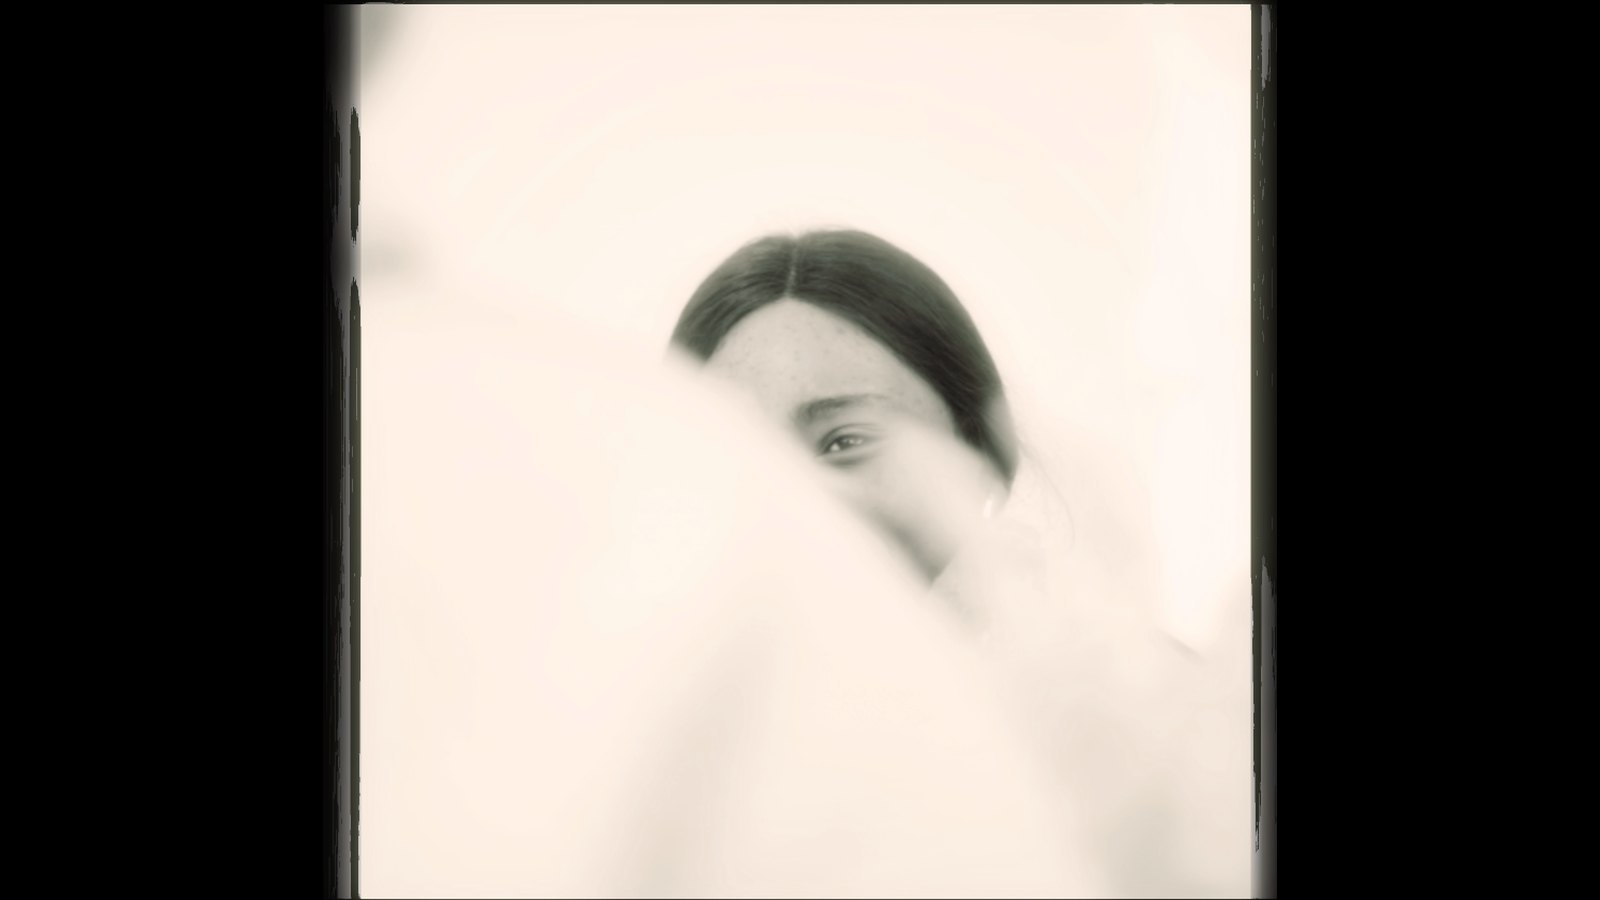
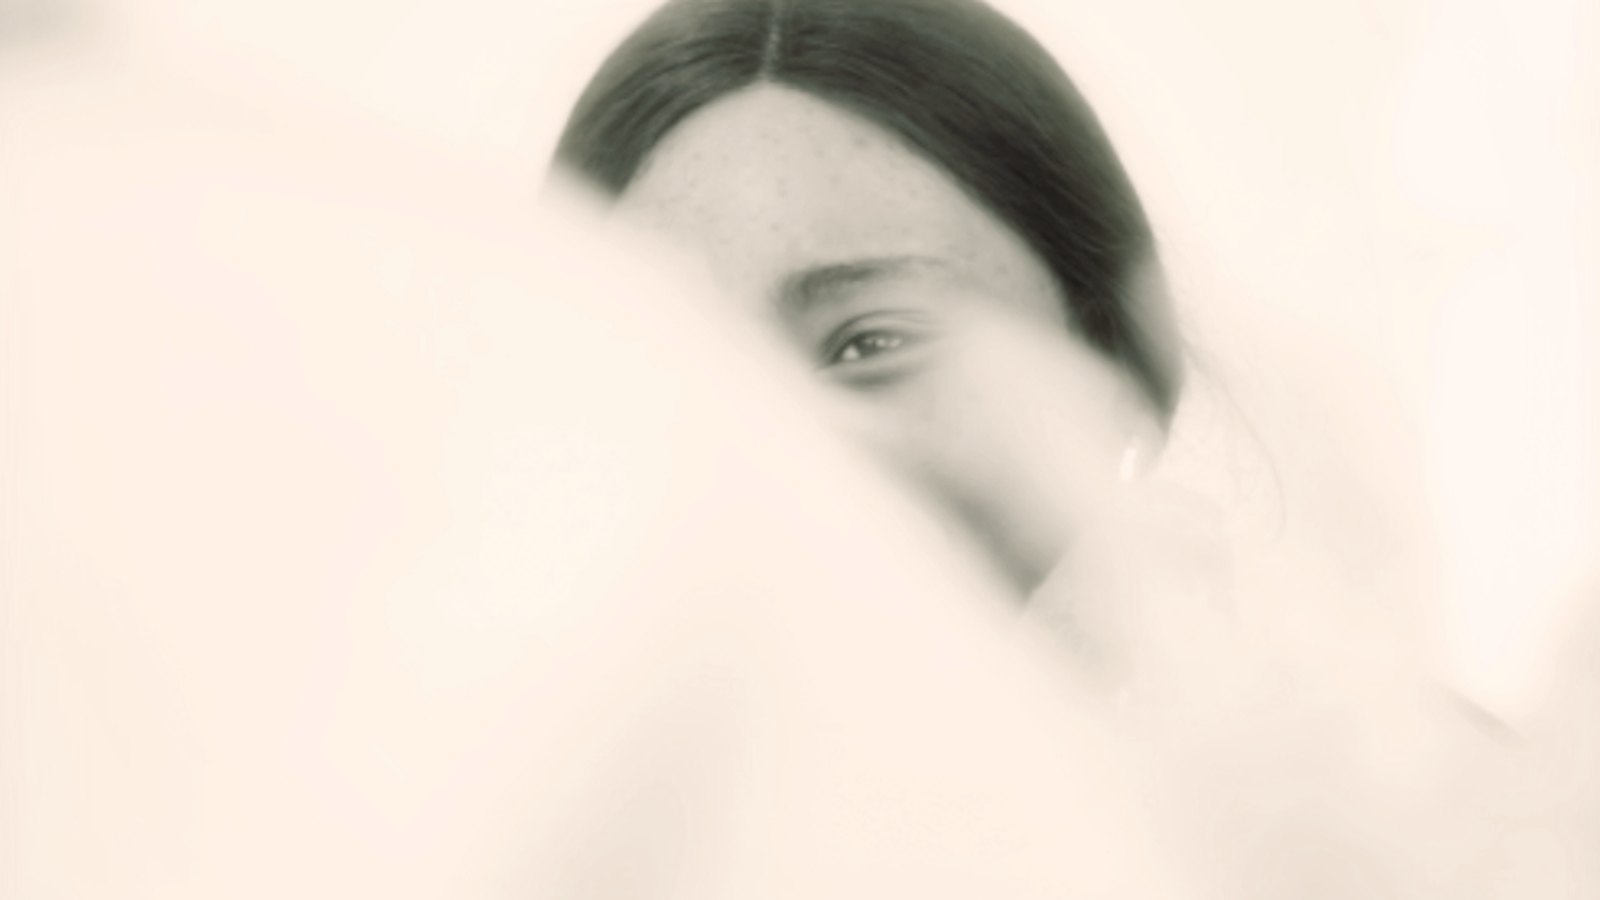
Films: zoomed still for Five women, five portraits
Claude-Session: https://claude.ai/code/session_01KwFkcjtweLDd6qYYzFRxw4

diff --git a/films.html b/films.html
@@ -109,7 +109,7 @@
         </div>
       </article>
       <article class="piece" id="cinco-mujeres">
-        <!-- Still: photos/art-06.jpg (16:9: square frame with black side bars). Vertical video (YouTube Short). -->
+        <!-- Still: photos/art-06.jpg (16:9 crop of the portrait). Vertical video (YouTube Short). -->
         <a class="ph r-w frame player" href="https://www.youtube.com/shorts/Y2JbU7RIQf4" target="_blank" rel="noopener" aria-label="Play Five women, five portraits"><img src="photos/art-06.jpg" alt="A young woman half hidden behind a soft white blur, black-and-white portrait"><span class="play"><svg width="22" height="22" viewBox="0 0 24 24" aria-hidden="true"><path d="M7 4.5v15l12.5-7.5z" fill="currentColor"/></svg><span>Play</span></span></a>
         <div class="piece-txt">
           <div class="caption">Five women, five portraits · Nueva Vida</div>

diff --git a/es/films.html b/es/films.html
@@ -108,7 +108,7 @@
 </div>
 </article>
 <article class="piece" id="cinco-mujeres">
-<!-- Still: photos/art-06.jpg (16:9: square frame with black side bars). Vertical video (YouTube Short). -->
+<!-- Still: photos/art-06.jpg (16:9 crop of the portrait). Vertical video (YouTube Short). -->
 <a aria-label="Play Five women, five portraits" class="ph r-w frame player" href="https://www.youtube.com/shorts/Y2JbU7RIQf4" rel="noopener" target="_blank"><img alt="A young woman half hidden behind a soft white blur, black-and-white portrait" src="../photos/art-06.jpg"/><span class="play"><svg aria-hidden="true" height="22" viewbox="0 0 24 24" width="22"><path d="M7 4.5v15l12.5-7.5z" fill="currentColor"></path></svg><span>Ver</span></span></a>
 <div class="piece-txt">
 <div class="caption">Cinco mujeres, cinco retratos · Nueva Vida</div>
